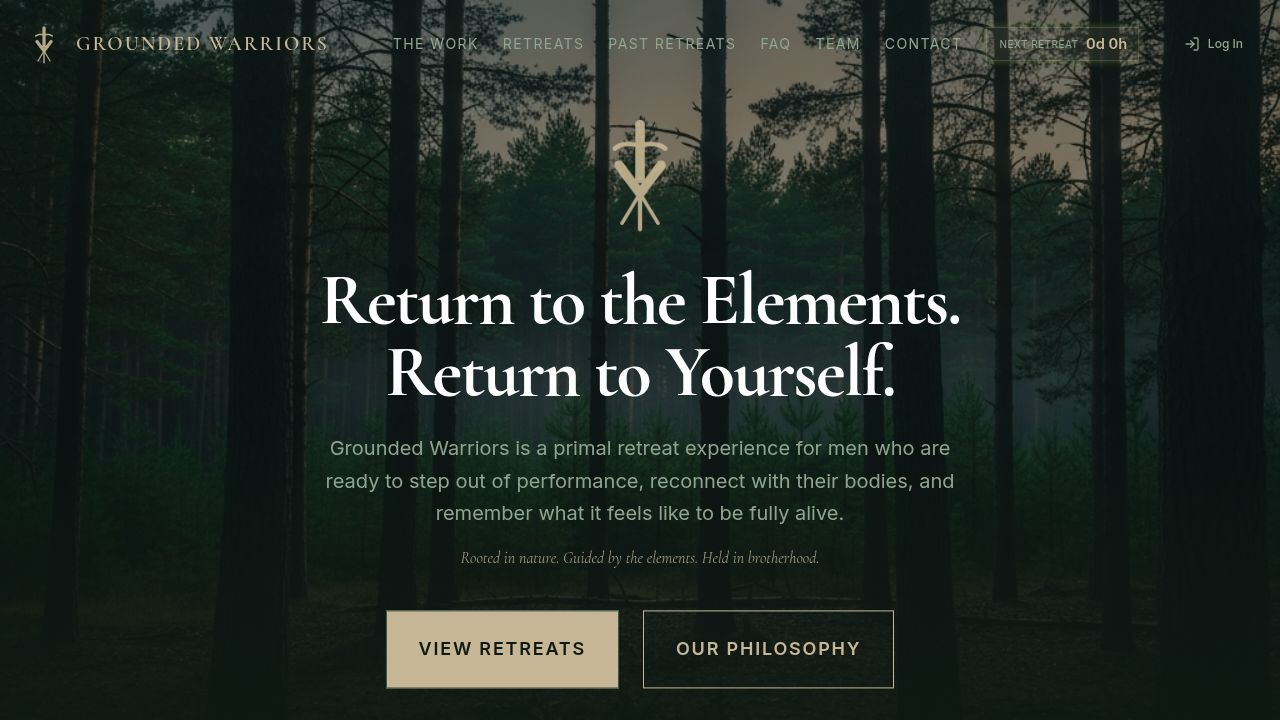
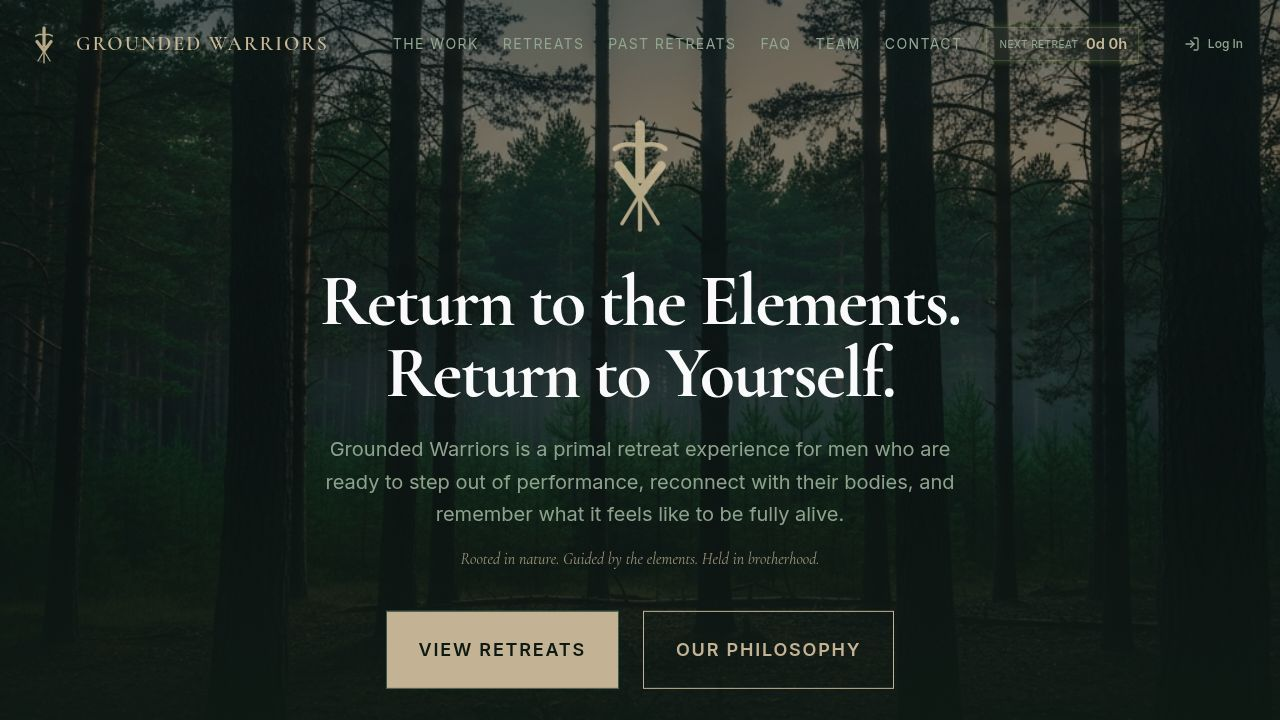
Rotate retreats: move May to past, add Equinox Gathering placeholder
- Removed Spring Awakening (May 1-4, 2026) from upcoming retreats in
  client/src/lib/data.ts.
- Added new placeholder upcoming retreat "Equinox Gathering" — September
  2026, Marmora, ON — using driftwoodForest as a placeholder image.
  Specific dates and final pricing TBD; default deposit/full amounts
  copied from the Winter Descent pattern (250/555).
- Added a new "May 2026 — Algonquin Park, ON" entry at the top of the
  Past Retreats page with an empty images array so the existing
  "Photos coming soon" placeholder renders until the user uploads the
  actual retreat photos they mentioned.
- Updated home page countdown target date from May 1, 2026 to
  September 1, 2026.
- Added id 3 → /contact mapping in retreats.tsx slug map so the
  Equinox Gathering card has a working link (no dedicated landing
  page yet, per task scope).
- The existing /retreats/spring-awakening route and retreat-spring.tsx
  page are intentionally left in place but no longer linked from the
  upcoming retreats listing.

Follow-ups: user to upload May 2026 retreat photos; confirm exact
September dates and pricing for Equinox Gathering; optionally build a
dedicated landing page for it.

diff --git a/client/src/lib/data.ts b/client/src/lib/data.ts
@@ -121,13 +121,13 @@ export const springRetreatGallery = [
 
 export const retreats = [
   {
-    id: 2,
-    title: "Spring Awakening",
-    date: "May 1-4, 2026",
-    location: "Algonquin Park, ON",
-    image: mayColdPlunge,
+    id: 3,
+    title: "Equinox Gathering",
+    date: "September 2026",
+    location: "Marmora, ON",
+    image: driftwoodForest,
     depositAmount: 250,
-    fullAmount: 1999,
+    fullAmount: 555,
   },
 ];
 

diff --git a/client/src/pages/past-retreats.tsx b/client/src/pages/past-retreats.tsx
@@ -5,6 +5,13 @@ import { motion } from "framer-motion";
 export default function PastRetreats() {
   const pastEvents = [
     {
+      id: -1,
+      date: "May 2026",
+      location: "Algonquin Park, ON",
+      videoUrl: null,
+      images: [],
+    },
+    {
       id: 0,
       date: "March 2026",
       location: "Marmora, ON",

diff --git a/client/src/pages/retreats.tsx b/client/src/pages/retreats.tsx
@@ -9,6 +9,7 @@ import { RegistrationModal } from "@/components/registration-modal";
 const retreatSlugs: Record<number, string> = {
   1: "/retreats/winter-descent",
   2: "/retreats/spring-awakening",
+  3: "/contact",
 };
 
 export default function Retreats() {

diff --git a/client/src/pages/home.tsx b/client/src/pages/home.tsx
@@ -135,7 +135,7 @@ export default function Home() {
     return () => clearTimeout(timer);
   }, []);
 
-  const nextRetreatDate = new Date("2026-05-01");
+  const nextRetreatDate = new Date("2026-09-01");
 
   return (
     <Layout>
